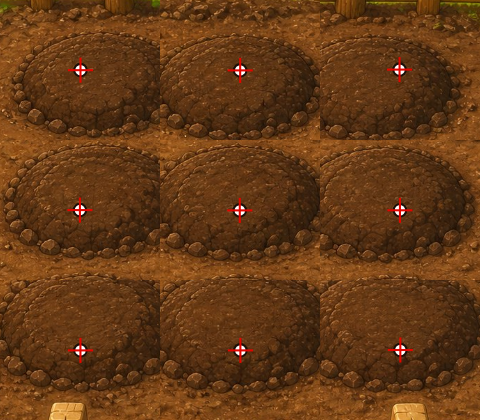
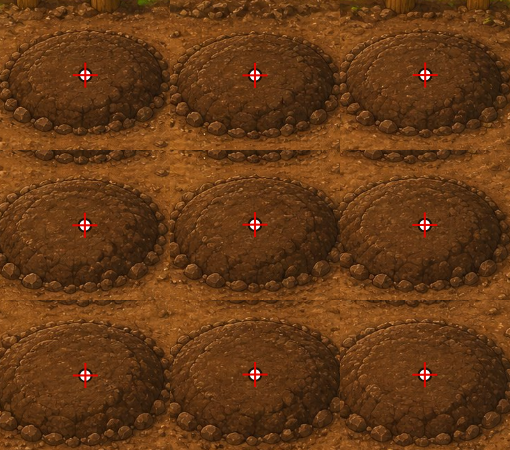
Prove white-peak mound anchors on the live Pixi canvas.
Empty-plot markers sit on clawdy’s peaks; overlay vs the old grid shows 20–50px deltas; landscape and portrait locals match with zero drift.

diff --git a/docs/qa/plant-align/README.md b/docs/qa/plant-align/README.md
@@ -34,7 +34,9 @@ Live Pixi canvas captures (`canvas.toDataURL`, `GARDEN_CAMERA_ZOOM = 0.85`) are 
 
 | File | What it is |
 | --- | --- |
-| [`empty-mounds-markers.png`](after-fix/empty-mounds-markers.png) | Empty plots, white disc + red cross at the **new** `GARDEN_MOUND_PX` (landscape 1280×800) |
+| [`empty-mounds-markers.png`](after-fix/empty-mounds-markers.png) | Empty plots, white disc + red cross on clawdy’s **white peaks** (landscape 1280×800) |
+| [`empty-mounds-old-vs-new.png`](after-fix/empty-mounds-old-vs-new.png) | Overlay: cyan = old regular grid, white+red = new peaks; bottom row Δy ≈ −45px |
+| [`empty-mounds-old-vs-new-stack.png`](after-fix/empty-mounds-old-vs-new-stack.png) | Stack: previous 5–15px retarget (top) vs white-peak anchors (bottom) |
 | [`empty-mounds-markers-close.png`](after-fix/empty-mounds-markers-close.png) | Tight crops of those nine markers on the painted mounds |
 | [`empty-mounds-markers-portrait.png`](after-fix/empty-mounds-markers-portrait.png) | Same markers, portrait 800×1280 — locals unchanged |
 | [`empty-mounds-markers-tablet.png`](after-fix/empty-mounds-markers-tablet.png) | Tablet landscape 1024×768 |
